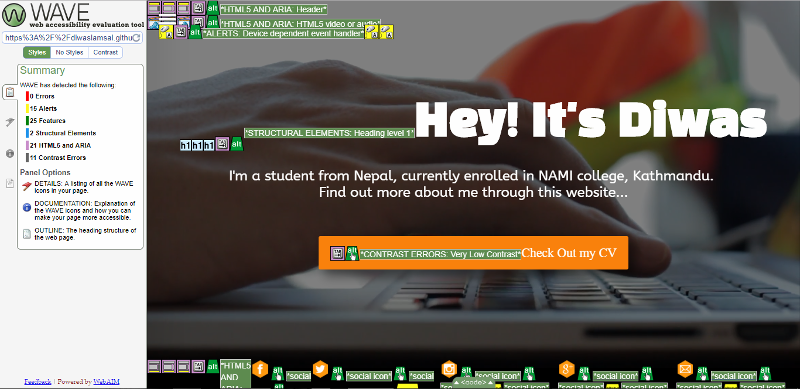
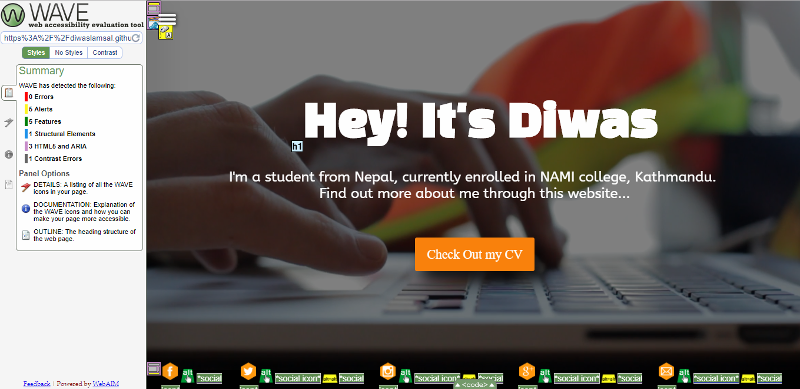
home page button

diff --git a/style.css b/style.css
@@ -222,6 +222,7 @@
 
 
 .CVButton {
+
 	margin: auto;
 	margin-top: 50px;
 	width: auto;
@@ -229,24 +230,26 @@
 	font-size: calc(1.5vw + 5px);
 }
 
-
-.CVButton a {
-	color: white;
+.CVButton > a {
+	color: rgb(255,250,200);
 	text-decoration: none;
-	background: rgb(250, 130, 0);
+	background: none;
 	padding-right: 20px;
 	padding-left: 20px;
-	padding-top: calc(1vw + 5px);
-	padding-bottom: calc(1vw + 5px);
+	padding-top: calc(.7vw + 5px);
+	padding-bottom: calc(.7vw + 5px);
 	border-radius: 3px;
-	transition: .8s;
-	box-shadow: 15px 15px 40px rgba(0,0,0,0.8);
+	transition: .5s;
+	font-family: Sans-Serif;
+	font-weight: bold;
+	border: 3px solid rgb(245, 160, 0);
 }
 
-.CVButton a:hover {
-	background: rgb(255, 150, 0);
-	box-shadow: 5px 5px 15px rgba(0,0,0,0.5);
+.CVButton > a:hover {
+	background: rgb(245, 160, 0);
+	color: white;
 }
+
 
 /*~~~~~~~~~~~~~~~~~~~~~~~~~~~~~~~~~~~~~~~~~~~~~~~~~~~~~~~~~~~~~CONTENT IN THE HOMEPAGE END~~~~~~~~~~~~~~~~~~~~~~~~~~~~~~~~~~~~~~~~~~~~~~~~~~~~~~~~~~~~~*/
 
